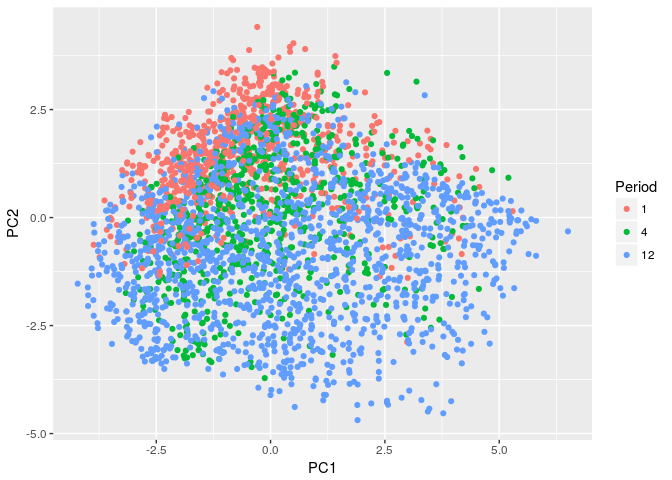
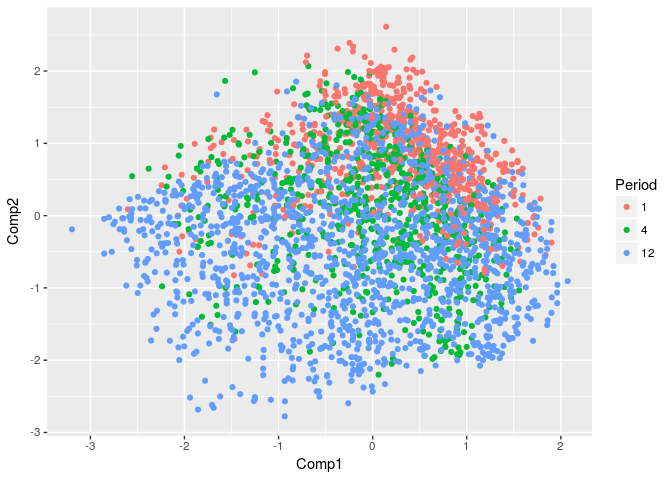
Updated mars example in readme

diff --git a/README.md b/README.md
@@ -181,10 +181,15 @@ yk <- bind_cols(
 
 ``` r
 # 2-d Feature space
-prcomp(yk, scale=TRUE)$x %>%
-  as_tibble() %>%
+d <- dist(scale(yk))
+ei <- embedding(d, method="MDS")
+```
+
+``` r
+# 2-d Feature space
+ei %>%
   bind_cols(Period=as.factor(yk$frequency)) %>%
-  ggplot(aes(x=PC1, y=PC2)) +
+  ggplot(aes(x=Comp1, y=Comp2)) +
     geom_point(aes(col=Period))
 ```
 
